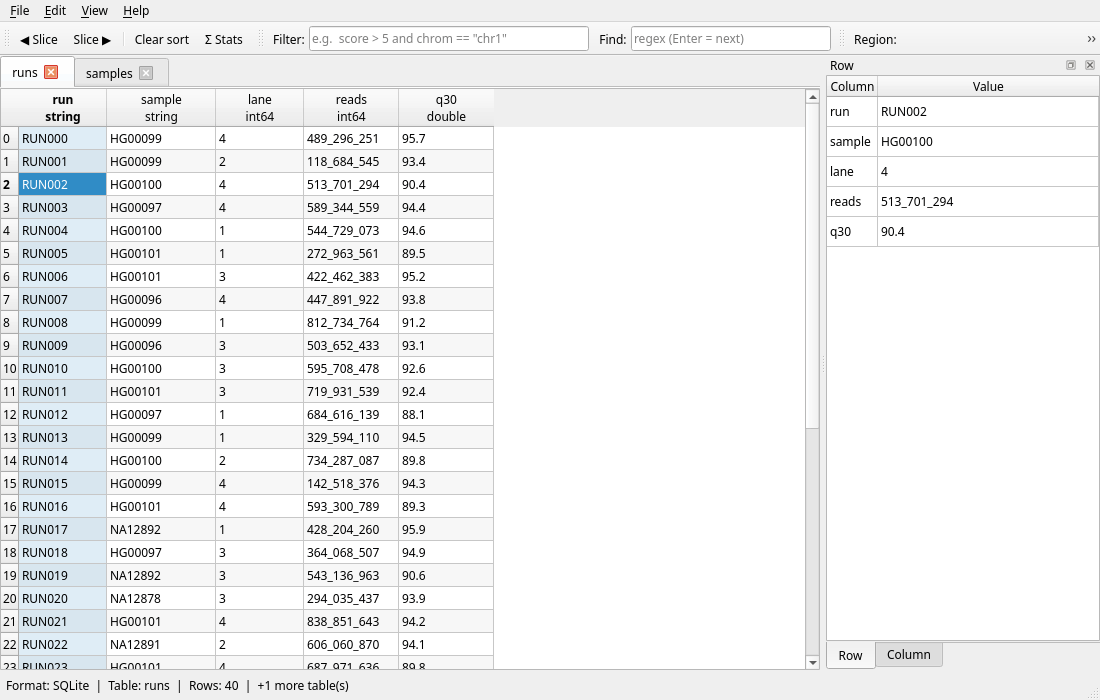
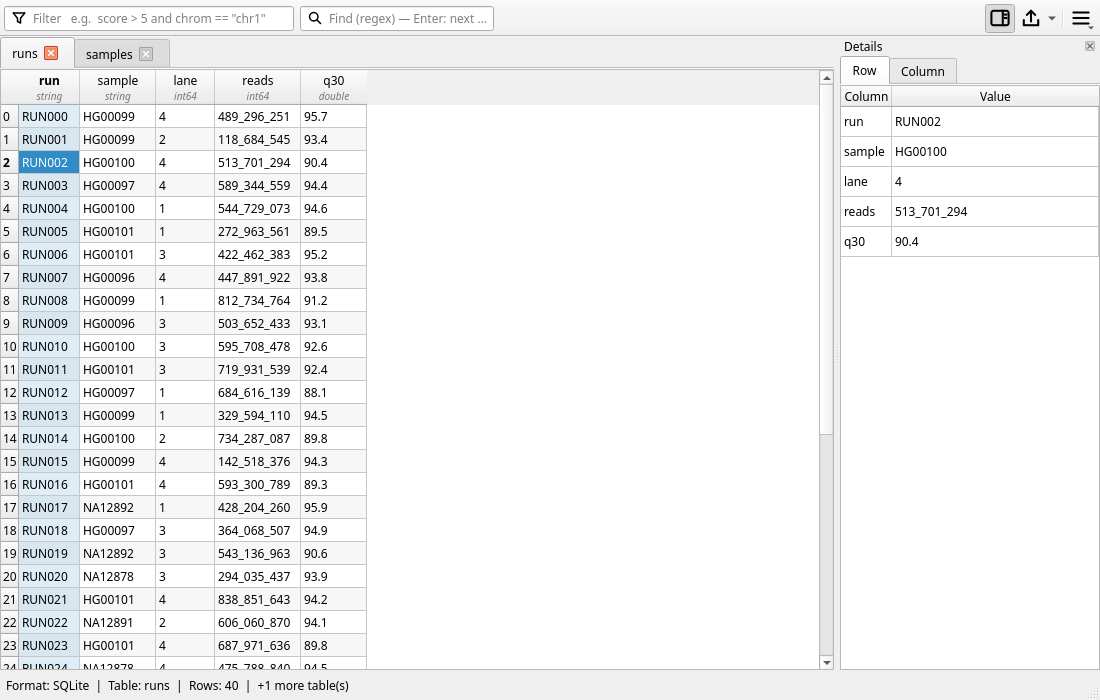
docs(vvg): the toolbar row, the format options strip, Details and ≡
docs/vvg.md gains "The window": the one toolbar row (Filter, Find,
Details Ctrl+B, Export… with its menu, ≡ on F10 or a right-click),
the hidden-by-default menu bar (View ▸ Menu Bar), the strip under the
tab bar with a table of which file or tab offers which option, the
per-file scope of those options, index hints, disabled combinations,
and View ▸ Column Types. The Region bar, Σ Stats, samples / matrix
toolbar and "Row and Column dock" entries are replaced by the strip,
the three-click header sort with Clear Sort, the Filter / Find
shortcuts (Ctrl+Shift+F / Ctrl+F) and the Details panel; Copy as vv
Command notes the file's format options and the Export… menu; the long
matrix entry notes the window's row limit.

docs/img/vvg/*.png regenerated with docs/shots/make_shots.sh (anndata,
column-stats, vcf, parquet, bam, sqlite, json, json-tree).

Changed region(s): [[0.0, 0.0, 0.9273, 0.96], [0.8655, 0.0, 1.0, 0.15], [0.9891, 0.9, 1.0, 0.96]]

diff --git a/docs/vvg.md b/docs/vvg.md
@@ -3,7 +3,7 @@
 `vvg` is a Qt6 window over the same reader as `vv`: it opens every format vv
 does ([gallery](formats.md)), one tab per file, sheet, table or component.
 
-![vvg: an AnnData obs table with the Row tab of the dock](img/vvg/anndata.png)
+![vvg: an AnnData obs table with the Row tab of the Details panel](img/vvg/anndata.png)
 
 ## Start
 
@@ -21,6 +21,45 @@ Command* goes the other way.
 
 ![vvg: a Parquet file filtered and sorted](img/vvg/parquet.png)
 
+## The window
+
+- **Toolbar** — one row: the *Filter* and *Find* boxes, then on the right
+  *Details* (*Ctrl+B*, the Row / Column panel), *Export…* (*Ctrl+E*; its ▾ has
+  *Copy as vv Command* and *Open Export Folder*) and **≡**, the menu (*F10*, or
+  right-click the toolbar): open, recent files, close, *Edit ▸*, *View ▸*,
+  *Help ▸*, quit. The classic File / Edit / View / Help menu bar holds the
+  same and is off unless *View ▸ Menu Bar* is checked (always on with a
+  native macOS menu bar). Below 1150 px the buttons drop their labels.
+- **Format options** — under the tab bar, a strip with the options the
+  current tab's file offers, and nothing else; a tab with none (a CSV, an
+  AnnData `obs`) has no strip. Each file keeps its own options: a change
+  re-opens that file's tabs only, in place, and the other files keep their
+  filters, sorts and columns.
+
+  | File / tab | Options |
+  |---|---|
+  | BAM / CRAM | Region, *Pileup* (mpileup rows), *Tags* (`NM,AS,RG` → typed columns), *Contigs* |
+  | SAM / PAF | Region, *Tags* (SAM also *Contigs*) |
+  | VCF / BCF | Region, *Samples* struct / long / text and *GT stats* (with samples), *Expand INFO*, *Contigs* |
+  | GFF / GTF | Region, *Expand attributes* |
+  | BED, bedGraph, bigWig / bigBed, 2bit, FASTA, Cooler, GenBank | Region |
+  | Parquet with chromosome / start / end columns | Region |
+  | HDF5 / AnnData / Loom / 10x / Zarr / R sparse matrix tabs | *Matrix* wide / long |
+  | NumPy arrays of 3+ axes | *Slice* ◀ ▶ |
+
+  *Region* takes `chr1:1000-2000` (several, comma-separated; *Enter* or *Go*;
+  *Ctrl+L* focuses it), 0- or 1-based coordinates and ± slop. A BAM / CRAM /
+  BCF / FASTA without the index a region needs shows the box disabled with the
+  command that builds the index; a text file without a tabix index notes that a
+  region reads the whole file. Options that do not combine are greyed out
+  instead of failing (*Contigs* turns off the record options, *Pileup* turns
+  off *Tags*); an option the file cannot take (a malformed region) leaves the
+  tabs as they were and says why in the strip. The strip wraps onto more lines
+  in a narrow window.
+- **Column types** — each header shows the column's type under its name, in
+  a smaller, dimmer italic; *View ▸ Column Types* turns the line off.
+- The window's size and its docks are restored at the next start.
+
 ## What it does
 
 - **Tabs** — files, workbook sheets, SQLite and DuckDB tables, HDF5 / Zarr /
@@ -31,13 +70,12 @@ Command* goes the other way.
   block of rows not read yet shows `…` until it arrives, so the window stays
   responsive on slow or network storage.
 - **Sort, filter, find** — click a header to sort (by type, not text) and
-  put the cursor in that column; the
-  filter bar uses vv's `--filter` grammar (`score > 5 and chrom == "chr1"`);
-  the find bar takes a regex. All three run off the UI thread with a progress
-  bar and *Cancel*, so multi-GB files stay responsive.
-- **Region bar** — `chr1:1000-2000` (UCSC or NCBI coordinates, optional slop)
-  re-opens indexed files over that range; *Pileup* shows BAM / CRAM as mpileup
-  rows.
+  put the cursor in that column; a second click sorts descending, a third
+  restores the file's order (also *Clear Sort* in the header's right-click
+  menu and *View ▸*). The Filter box (*Ctrl+Shift+F*) uses vv's `--filter`
+  grammar (`score > 5 and chrom == "chr1"`); the Find box (*Ctrl+F*) takes a
+  regex. All three run off the UI thread with a progress bar and *Cancel*, so
+  multi-GB files stay responsive.
 - **JSON tree** — a JSON document (`.json`, `.geojson`, `.ipynb`, `.har`, also
   compressed) opens as a tree: keys, values and types, children loaded as you
   expand, the jq path and validation in the status bar, the value in the detail
@@ -48,21 +86,23 @@ Command* goes the other way.
   flags (`--filter`, `--select`, …), open as a table directly.
 - **Expand** (on by default) — VCF `INFO` and GFF / GTF `attributes` are split
   into one column per key, sortable and filterable.
-- **samples / matrix** — the toolbar's layouts for VCF / BCF sample columns
-  (struct, long: one row per record × sample, text) and HDF5 / AnnData matrix
-  tabs (wide, long: one row per stored value), as vv's `--samples` /
-  `--matrix`.
-- **Row and Column** — the right dock's *Row* tab lists every field of the
+- **Samples / Matrix** — the layouts of VCF / BCF sample columns (struct,
+  long: one row per record × sample, text) and of HDF5 / AnnData matrix tabs
+  (wide, long: one row per stored value, the whole matrix), as vv's
+  `--samples` / `--matrix`. A long matrix of more rows than the window can
+  scroll (about 70–90 million, by row height) shows the first ones and says
+  so; filter and export see them all.
+- **Details** (*Ctrl+B*) — the right panel's *Row* tab lists every field of the
   current row; its *Column* tab summarises the cursor's column (below).
-  *View ▸ Columns* shows / hides columns; go to row, ◀ / ▶ slices for 3-D
-  arrays; *Ctrl+C* copies the selection as TSV. *View ▸ Smooth Scrolling* (on by
-  default) scrolls by pixels; off, by whole rows and columns.
+  *View ▸ Columns* shows / hides columns; go to row (*Ctrl+G*); *Ctrl+C* copies
+  the selection as TSV. *View ▸ Smooth Scrolling* (on by default) scrolls by
+  pixels; off, by whole rows and columns.
 - **Selection summary** — select two or more cells and the status bar shows
   `Σ 13200.3 · mean 1100.025 · min 0 · max 3200 · 12 numbers` over the
   numeric cells among them (text, dates and hidden columns are skipped; up to
   1,000,000 cells). The numbers are plain, without digit grouping, and the
   text can be selected and copied.
-- **Column tab** (*Σ Stats* raises it) — the cursor column, tinted in the
+- **Column tab** (*Details ▸ Column*) — the cursor column, tinted in the
   table, by name and position (*Column 7 of 120*); click the name, or
   *→ show in table* when the column is scrolled out of view, to bring it
   back into view. Its count, nulls,
@@ -85,8 +125,9 @@ Command* goes the other way.
   selected ones as TSV; right-click for *Copy All as TSV* and *Copy as vv
   Command* (`vv … --describe --select col`). Double-click a value to filter
   the table to it.
-- **Copy as vv command** (*Ctrl+Alt+C*) — the `vv` command line that reproduces
-  the tab: file, `--tab`, region options, `--filter`, `--sort`, `--select`.
+- **Copy as vv command** (*Ctrl+Alt+C*, or *Export… ▾*) — the `vv` command
+  line that reproduces the tab: file, `--tab`, the file's format options,
+  `--filter`, `--sort`, `--select`.
 - **Export view** (*Ctrl+E*) — the tab's rows after filter / sort / column
   choice, to Parquet, Arrow, TSV, CSV, JSON or NDJSON, written by vv's own
   writers (every row, not only the visible ones), in the background with
